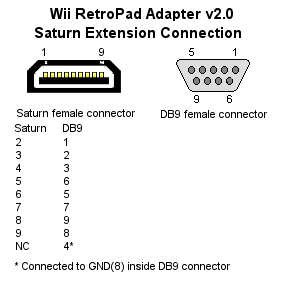
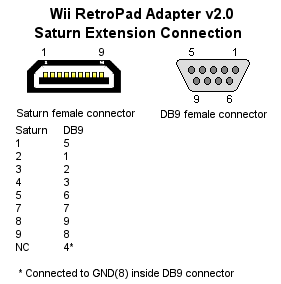
Fixed sega saturn controller extension diagram. Also fixed/improved some stuff in the sega saturn pad reading code.

Changed region(s): [[0.0569, 0.9014, 0.8256, 0.9859], [0.0569, 0.4225, 0.1708, 0.9014], [0.2278, 0.4225, 0.3132, 0.8732]]

diff --git a/src/saturn.cpp b/src/saturn.cpp
@@ -27,6 +27,8 @@
 #define D3 10
 #define D2 11
 
+#define DELAY 7
+
 void saturn_init() {
 	pinModeFast(D1, INPUT);
 	pinModeFast(D0, INPUT);
@@ -44,9 +46,25 @@ void saturn_init() {
 int saturn_read() {
 	int retval = 0;
 
+	/*
+	* S0	S1		D0	d1	d2	d3
+	* Off 	Off 	Z 	Y 	X 	R
+	* On 	Off 	B 	C 	A 	St
+	* Off 	On 		Up 	Dn 	Lt 	Rt
+	* On 	On 		- 	- 	- 	L
+	*/
+
+	// Reading L
+	digitalWriteFast(S0, HIGH);
+	digitalWriteFast(S1, HIGH);
+	delayMicroseconds(DELAY);
+
+	retval |= (!digitalReadFast(D3) << 12); // L
+
 	// Reading Z, Y, X and R
 	digitalWriteFast(S0, LOW);
 	digitalWriteFast(S1, LOW);
+	delayMicroseconds(DELAY);
 
 	retval |= (!digitalReadFast(D0) << 0); // Z
 	retval |= (!digitalReadFast(D1) << 1); // Y
@@ -56,6 +74,7 @@ int saturn_read() {
 	// Reading B, C, A and Start
 	digitalWriteFast(S0, HIGH);
 	digitalWriteFast(S1, LOW);
+	delayMicroseconds(DELAY);
 
 	retval |= (!digitalReadFast(D0) << 4); // B
 	retval |= (!digitalReadFast(D1) << 5); // C
@@ -65,17 +84,12 @@ int saturn_read() {
 	// Reading Up, Down, Left, Right
 	digitalWriteFast(S0, LOW);
 	digitalWriteFast(S1, HIGH);
+	delayMicroseconds(DELAY);
 
 	retval |= (!digitalReadFast(D0) << 8); // Up
 	retval |= (!digitalReadFast(D1) << 9); // Down
 	retval |= (!digitalReadFast(D2) << 10); // Left
 	retval |= (!digitalReadFast(D3) << 11); // Right
-
-	// Reading L
-	digitalWriteFast(S0, HIGH);
-	digitalWriteFast(S1, HIGH);
-
-	retval |= (!digitalReadFast(D3) << 12); // L
 
 	return retval;
 }
